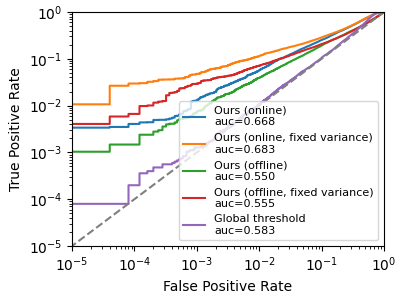
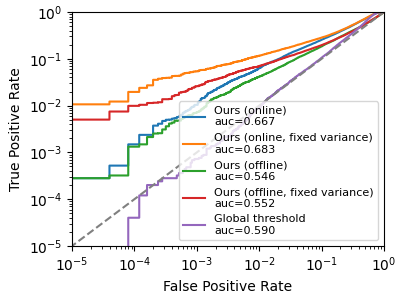
Fix LiRA inference

diff --git a/research/mi_lira_2021/inference.py b/research/mi_lira_2021/inference.py
@@ -69,7 +69,7 @@ def main(argv):
                 for dy in range(0, 2*shift+1, stride):
                     this_x = aug_pad[:, dx:dx+32, dy:dy+32, :].transpose((0,3,1,2))
 
-                    logits = model.model(this_x, training=True)
+                    logits = model.model(this_x, training=False)
                     outs.append(logits)
 
         print(np.array(outs).shape)

diff --git a/research/mi_lira_2021/README.md b/research/mi_lira_2021/README.md
@@ -94,15 +94,15 @@ which should give (something like) the following output
 
 ```
 Attack Ours (online)
-   AUC 0.6676, Accuracy 0.6077, TPR@0.1%FPR of 0.0169
+   AUC 0.6675, Accuracy 0.6074, TPR@0.1%FPR of 0.0104
 Attack Ours (online, fixed variance)
-   AUC 0.6856, Accuracy 0.6137, TPR@0.1%FPR of 0.0593
+   AUC 0.6831, Accuracy 0.6140, TPR@0.1%FPR of 0.0541
 Attack Ours (offline)
-   AUC 0.5488, Accuracy 0.5500, TPR@0.1%FPR of 0.0130
+   AUC 0.5465, Accuracy 0.5486, TPR@0.1%FPR of 0.0073
 Attack Ours (offline, fixed variance)
-   AUC 0.5549, Accuracy 0.5537, TPR@0.1%FPR of 0.0299
+   AUC 0.5518, Accuracy 0.5485, TPR@0.1%FPR of 0.0259
 Attack Global threshold
-   AUC 0.5921, Accuracy 0.6044, TPR@0.1%FPR of 0.0009
+   AUC 0.5900, Accuracy 0.6018, TPR@0.1%FPR of 0.0007
 ```
 
 where the global threshold attack is the baseline, and our online,

diff --git a/research/mi_poison_2022/README.md b/research/mi_poison_2022/README.md
@@ -88,13 +88,13 @@ which should give (something like) the following output
 
 ```
 Attack No poison (LiRA)
-   AUC 0.7025, Accuracy 0.6258, TPR@0.1%FPR of 0.0544
+   AUC 0.6992, Accuracy 0.6240, TPR@0.1%FPR of 0.0529
 Attack No poison (Global threshold)
-   AUC 0.6191, Accuracy 0.6173, TPR@0.1%FPR of 0.0012
+   AUC 0.6200, Accuracy 0.6167, TPR@0.1%FPR of 0.0011
 Attack With poison (LiRA)
-   AUC 0.9943, Accuracy 0.9653, TPR@0.1%FPR of 0.4945
+   AUC 0.9904, Accuracy 0.9617, TPR@0.1%FPR of 0.3730
 Attack With poison (Global threshold)
-   AUC 0.9922, Accuracy 0.9603, TPR@0.1%FPR of 0.3930
+   AUC 0.9911, Accuracy 0.9580, TPR@0.1%FPR of 0.2130
 ```
 
 where the baselines are LiRA and a simple global threshold on the membership
